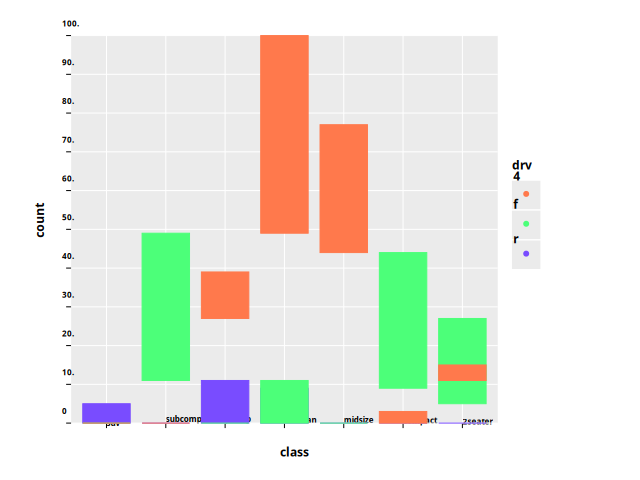
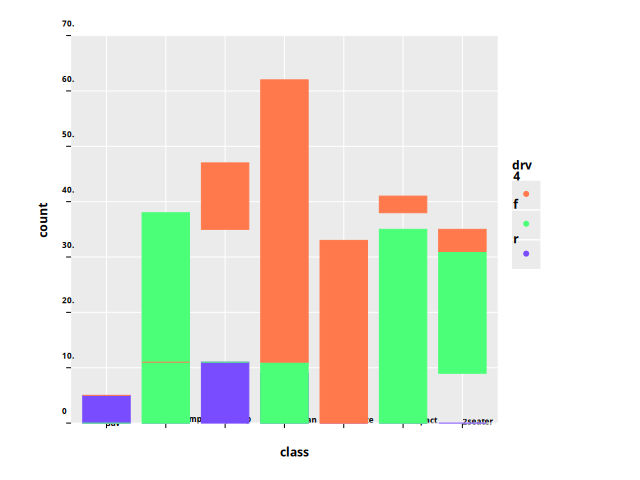
fix stacking sums

diff --git a/src/python_ggplot/gg/geom/utils.py b/src/python_ggplot/gg/geom/utils.py
@@ -325,6 +325,8 @@ def _filled_count_geom_map(
 
     grouped = df.groupby(filled_stat_geom.map_discrete_columns, sort=False)  # type: ignore
     sorted_keys = sorted(grouped.groups.keys(), reverse=True)  # type: ignore
+
+    # TODO fix col type, issue with pandas index
     col = pd.Series(dtype=float)  # For stacking
 
     all_classes = pd.Series(df[filled_stat_geom.get_x_col()].unique())  # type: ignore
@@ -352,6 +354,7 @@ def _filled_count_geom_map(
         col = add_counts_by_position(
             col, yield_df["count"], filled_stat_geom.geom.gg_data.position  # type: ignore
         )
+        col = col.to_numpy()
 
         if _modify_for_stacking(filled_stat_geom.geom):
             yield_df["count"] = col
